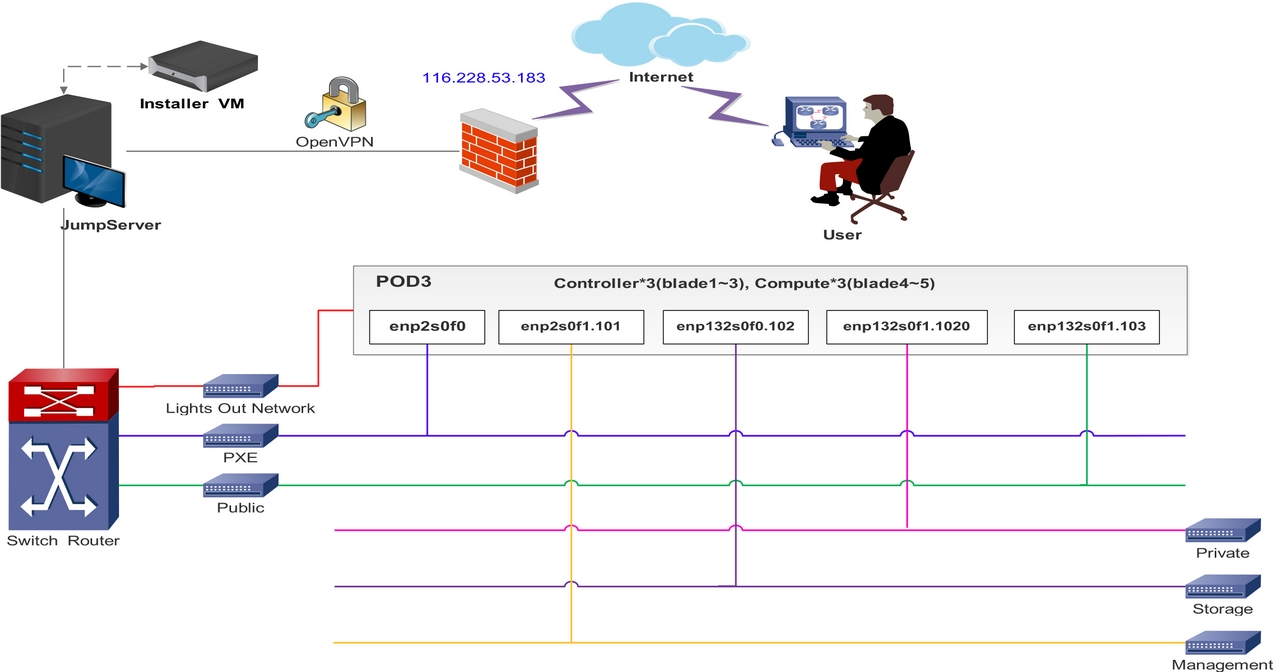
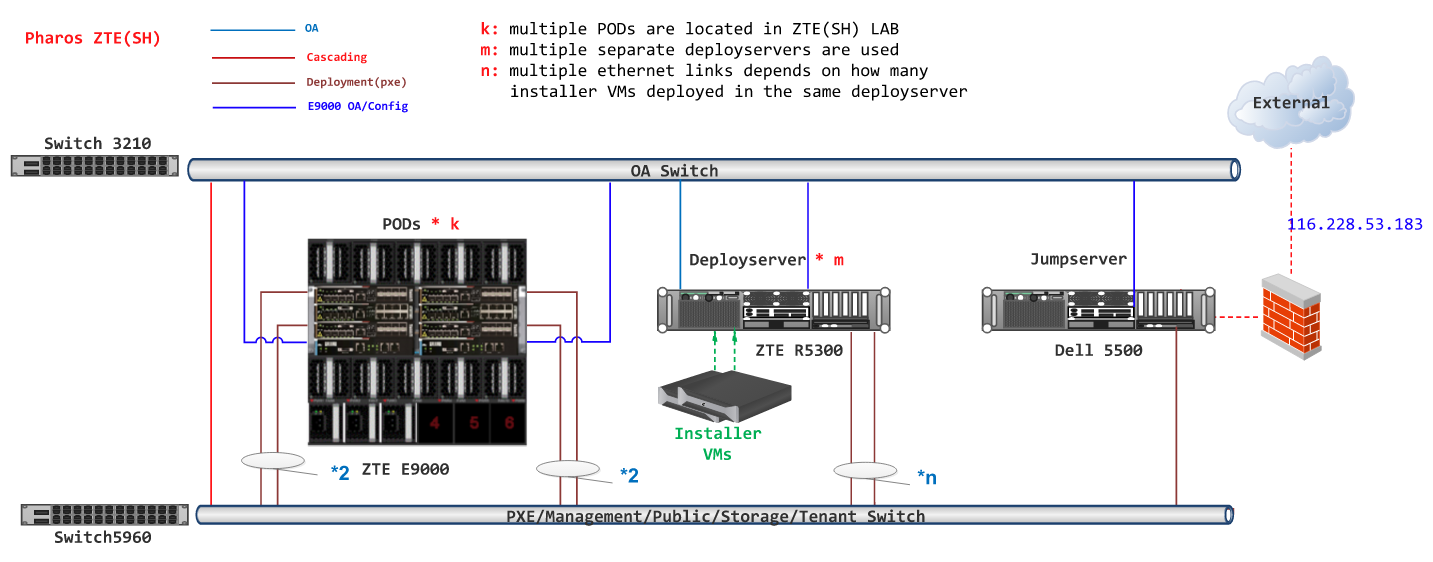
Migration ZTE NJ LAB from Nanjing to Shanghai
1. Migration ZTE POD1 and POD2 in Nanjing testlab into Shanghai. Update
releated documents.
2. Update lab topology.
3. Separate Deploy Server from Jump Host.

JIRA: PHAROS-245
JIRA: PHAROS-246

diff --git a/docs/labs/zte-sh-lab/lab_description.rst b/docs/labs/zte-sh-lab/lab_description.rst
@@ -12,9 +12,10 @@ ZTE SH Lab Specification
 Introduction
 ------------
 
-ZTE SH Pharos lab currently has one POD available in Shanghai. The POD has 5 servers, 3 controller
-nodes and 2 computer nodes. It is dedicatedly used for baremetal CI. The POD is supposed to support
-scenarios related with performance enhancement projects, such as KVM, OVS, FDS, etc.
+ZTE SH Pharos lab currently has three PODs available in Shanghai. Each POD has 5 servers, 3
+controller nodes and 2 computer nodes. These PODs are dedicatedly used for Production/CI. These PODs
+focus scenarios related with **test** projects, **installer** projects and performance enhancement
+projects, such as KVM, OVS, FDS, etc.
 
 Scenarios planned are list here:
 
@@ -28,14 +29,24 @@ Scenarios are defined in
 Lab Resources
 -------------
 
-+----------+------------+-----------+-------------------------+------------+--------+---------+
-| POD Name | Project(s) | PTL(s)    | Email(s)                | POD Role   | Status | Notes   |
-+----------+------------+-----------+-------------------------+------------+--------+---------+
-| POD3     | FUEL       | Gregory   | gelkinbard@mirantis.com | CI: latest | Active | NFV-KVM |
-|          |            | Elkinbard |                         |            |        | OVSNFV  |
-+----------+------------+-----------+-------------------------+------------+--------+---------+
++----------+------------+-----------+-------------------------+------------+--------+-----------+
+| POD Name | Project(s) | PTL(s)    | Email(s)                | POD Role   | Status | Notes     |
++----------+------------+-----------+-------------------------+------------+--------+-----------+
+| POD1     | FUEL       | Gregory   | gelkinbard@mirantis.com | CI: latest | Active | Yardstick |
+|          |            | Elkinbard |                         |            |        | Funtest   |
+|          |            |           |                         |            |        | Doctor    |
+|          |            |           |                         |            |        | Parser    |
++----------+------------+-----------+-------------------------+------------+--------+-----------+
+| POD2     | FUEL       | Gregory   | gelkinbard@mirantis.com | CI: latest | Active | Qtip      |
+|          |            | Elkinbard |                         |            |        |           |
++----------+------------+-----------+-------------------------+------------+--------+-----------+
+| POD3     | FUEL       | Gregory   | gelkinbard@mirantis.com | CI: latest | Active | NFV-KVM   |
+|          |            | Elkinbard |                         |            |        | OVSNFV    |
++----------+------------+-----------+-------------------------+------------+--------+-----------+
 
-- `POD3 wiki page <https://wiki.opnfv.org/display/pharos/ZTE+SH+Testlab>`_
+- `POD1-3 wiki page <https://wiki.opnfv.org/display/pharos/ZTE+SH+Testlab>`_
+* `POD1 jenkins slave <https://build.opnfv.org/ci/computer/zte-pod1/>`_
+* `POD2 jenkins slave <https://build.opnfv.org/ci/computer/zte-pod2/>`_
 - `POD3 jenkins slave <https://build.opnfv.org/ci/computer/zte-pod3/>`_
 
 
@@ -43,7 +54,7 @@ Acceptable Usage Policy
 -----------------------
 
 Resources located in OPNFV ZTE SH lab shall only be used for CI, infra setup/configuration and
-troubleshooting purposes. No development work is allowed in this Lab.
+troubleshooting purposes. No development work is allowed in these PODs.
 
 
 Remote Access Infrastructure
@@ -57,7 +68,7 @@ Remote Access Procedure
 
 Access to this environment can be granted by sending an e-mail to: **yangyang1@zte.com.cn**.
 
-Subject: opnfv zte-pod3 access.
+Subject: opnfv zte-pod[1-3] access.
 
 The following information should be provided in the request:
 
@@ -83,3 +94,34 @@ Lab Topology
 
 .. image:: ./images/zte_sh_lab_topology.png
    :alt: Lab diagram not found
+
+All the PODs share the same **Jump Host** for only one public IP address is allocated for the
+pharos lab. Deploy servers are separated from Jump Host. Every 2 PODs share one **Deploy Server**.
+
+**Jump Host**
+
++----------+--------+-------+---------------+---------+--------+-----------+--------------------+------------------+-------+
+|          |        |       |               |         | Memory | Local     | 1GbE: NIC#/IP      | 10GbE: NIC#/IP   |       |
+| Hostname | Vendor | Model | Serial Number | CPUs    | (GB)   | Storage   | MAC/VLAN/Network   | MAC/VLAN/Network | Notes |
++----------+--------+-------+---------------+---------+--------+-----------+--------------------+------------------+-------+
+| Rabbit   | HP     | 5500  | -             | X5647x2 | 24     | 250GB SAS | IF0:               |                  |       |
+|          |        |       |               |         |        | 2 TB HDD  | a0:36:9f:00:11:34/ |                  |       |
+|          |        |       |               |         |        |           | 192.168.1.1/       |                  |       |
+|          |        |       |               |         |        |           | native vlan/OA     |                  |       |
+|          |        |       |               |         |        |           | IF1:               |                  |       |
+|          |        |       |               |         |        |           | a0:36:9f:00:11:35/ |                  |       |
+|          |        |       |               |         |        |           | 172.10.0.1/        |                  |       |
+|          |        |       |               |         |        |           | vlan 103/Public    |                  |       |
+|          |        |       |               |         |        |           | 172.20.0.1/        |                  |       |
+|          |        |       |               |         |        |           | vlan 113/Public    |                  |       |
+|          |        |       |               |         |        |           | 172.60.0.1/        |                  |       |
+|          |        |       |               |         |        |           | vlan 163/Public    |                  |       |
+|          |        |       |               |         |        |           | 172.70.0.1/        |                  |       |
+|          |        |       |               |         |        |           | vlan 173/Public    |                  |       |
+|          |        |       |               |         |        |           | IF2:               |                  |       |
+|          |        |       |               |         |        |           | a0.36:9:00:11:37/  |                  |       |
+|          |        |       |               |         |        |           | 116.228.53.183/    |                  |       |
+|          |        |       |               |         |        |           | native vlan/       |                  |       |
+|          |        |       |               |         |        |           | Internet           |                  |       |
++----------+--------+-------+---------------+---------+--------+-----------+--------------------+------------------+-------+
+

diff --git a/docs/labs/zte-sh-lab/pod2_description.rst b/docs/labs/zte-sh-lab/pod2_description.rst
@@ -24,21 +24,27 @@ Additional Requirements
 Server Specifications
 ---------------------
 
-
 **Jump Host**
 
-POD2 share the same **Jump Host** with POD1:
+POD2 share the same **Jump Host** in the lab.
 
-+----------+--------+-------+---------------+-----------+--------+-----------+-------------------+------------------+-------+
-|          |        |       |               |           | Memory | Local     | 1GbE: NIC#/IP     | 10GbE: NIC#/IP   |       |
-| Hostname | Vendor | Model | Serial Number | CPUs      | (GB)   | Storage   | MAC/VLAN/Network  | MAC/VLAN/Network | Notes |
-+----------+--------+-------+---------------+-----------+--------+-----------+-------------------+------------------+-------+
-| Frog     | ZTE    | R4300 | 277662500093  | E5-2620x2 | 32     | 600GB HDD | IF0: 10.20.0.1    |                  |       |
-|          |        |       |               |           |        |           | 98:F5:37:E1:B4:1C |                  |       |
-|          |        |       |               |           |        |           | VLAN 1            |                  |       |
-|          |        |       |               |           |        |           | PXE               |                  |       |
-+----------+--------+-------+---------------+-----------+--------+-----------+-------------------+------------------+-------+
+**Deploy Server**
 
+POD2 share the same **Deploy Server** with POD1.
+
++-----------+--------+-------+---------------+-----------+--------+-----------+--------------------+------------------+-------+
+|           |        |       |               |           | Memory | Local     | 1GbE: NIC#/IP      | 10GbE: NIC#/IP   |       |
+| Hostname  | Vendor | Model | Serial Number | CPUs      | (GB)   | Storage   | MAC/VLAN/Network   | MAC/VLAN/Network | Notes |
++-----------+--------+-------+---------------+-----------+--------+-----------+--------------------+------------------+-------+
+| Jellyfish | ZTE    | R5300 | 277662500093  | E5-2620x2 | 128    | 600GB SAS | IF0:               |                  |       |
+|           |        |       |               |           |        | 4 TB HDD  | 74:4a:a4:00:91:b3/ |                  |       |
+|           |        |       |               |           |        |           | 10.20.6.1/         |                  |       |
+|           |        |       |               |           |        |           | native vlan/PXE    |                  |       |
+|           |        |       |               |           |        |           | IF1:               |                  |       |
+|           |        |       |               |           |        |           | 74:4a:a4:00:91:b4/ |                  |       |
+|           |        |       |               |           |        |           | 10.20.7.1/         |                  |       |
+|           |        |       |               |           |        |           | native vlan/PXE    |                  |       |
++-----------+--------+-------+---------------+-----------+--------+-----------+--------------------+------------------+-------+
 
 
 **Compute Nodes**
@@ -126,5 +132,5 @@ Firewall Rules
 POD Topology
 ------------
 
-.. image:: ./zte_nj_pod2_topology.png
+.. image:: ./images/zte_sh_pod_topology.png
    :alt: POD diagram not found

diff --git a/docs/labs/zte-sh-lab/pod1_description.rst b/docs/labs/zte-sh-lab/pod1_description.rst
@@ -27,15 +27,23 @@ Server Specifications
 
 **Jump Host**
 
-+----------+--------+-------+---------------+-----------+--------+-----------+-------------------+------------------+-------+
-|          |        |       |               |           | Memory | Local     | 1GbE: NIC#/IP     | 10GbE: NIC#/IP   |       |
-| Hostname | Vendor | Model | Serial Number | CPUs      | (GB)   | Storage   | MAC/VLAN/Network  | MAC/VLAN/Network | Notes |
-+----------+--------+-------+---------------+-----------+--------+-----------+-------------------+------------------+-------+
-| Frog     | ZTE    | R4300 | 277662500093  | E5-2620x2 | 32     | 600GB HDD | IF0: 10.20.0.1    |                  |       |
-|          |        |       |               |           |        |           | 98:F5:37:E1:B4:1C |                  |       |
-|          |        |       |               |           |        |           | vlan 1            |                  |       |
-|          |        |       |               |           |        |           | PXE               |                  |       |
-+----------+--------+-------+---------------+-----------+--------+-----------+-------------------+------------------+-------+
+POD1 share the same **Jump Host** in the lab.
+
+**Deploy server**
+
++-----------+--------+-------+---------------+-----------+--------+-----------+--------------------+------------------+-------+
+|           |        |       |               |           | Memory | Local     | 1GbE: NIC#/IP      | 10GbE: NIC#/IP   |       |
+| Hostname  | Vendor | Model | Serial Number | CPUs      | (GB)   | Storage   | MAC/VLAN/Network   | MAC/VLAN/Network | Notes |
++-----------+--------+-------+---------------+-----------+--------+-----------+--------------------+------------------+-------+
+| Jellyfish | ZTE    | R5300 | 277662500093  | E5-2620x2 | 128    | 600GB SAS | IF0:               |                  |       |
+|           |        |       |               |           |        | 4 TB HDD  | 74:4a:a4:00:91:b3/ |                  |       |
+|           |        |       |               |           |        |           | 10.20.6.1/         |                  |       |
+|           |        |       |               |           |        |           | native vlan/PXE    |                  |       |
+|           |        |       |               |           |        |           | IF1:               |                  |       |
+|           |        |       |               |           |        |           | 74:4a:a4:00:91:b4/ |                  |       |
+|           |        |       |               |           |        |           | 10.20.7.1/         |                  |       |
+|           |        |       |               |           |        |           | native vlan/PXE    |                  |       |
++-----------+--------+-------+---------------+-----------+--------+-----------+--------------------+------------------+-------+
 
 
 **Nodes/Servers**
@@ -123,5 +131,5 @@ Firewall Rules
 POD Topology
 ------------
 
-.. image:: ./images/zte_nj_pod1_topology.png
+.. image:: ./images/zte_sh_pod_topology.png
    :alt: POD diagram not found

diff --git a/docs/labs/zte-sh-lab/pod3_description.rst b/docs/labs/zte-sh-lab/pod3_description.rst
@@ -25,15 +25,23 @@ Server Specifications
 
 **Jump Host**
 
-+----------+--------+-------+---------------+-----------+--------+-----------+-------------------+------------------+-------+
-|          |        |       |               |           | Memory | Local     | 1GbE: NIC#/IP     | 10GbE: NIC#/IP   |       |
-| Hostname | Vendor | Model | Serial Number | CPUs      | (GB)   | Storage   | MAC/VLAN/Network  | MAC/VLAN/Network | Notes |
-+----------+--------+-------+---------------+-----------+--------+-----------+-------------------+------------------+-------+
-| Frog     | ZTE    | R5300 | 210077307607  | E5-2609x2 | 32     | 600GB SAS | IF0: 10.20.0.1    |                  |       |
-|          |        |       |               |           |        | 2TB HDD   | 74:4a:a4:00:21:0b |                  |       |
-|          |        |       |               |           |        |           | vlan 100/PXE      |                  |       |
-|          |        |       |               |           |        |           |                   |                  |       |
-+----------+--------+-------+---------------+-----------+--------+-----------+-------------------+------------------+-------+
+POD3 share the same **Jump Host** in the lab.
+
+**Deploy Server**
+
++----------+--------+-------+---------------+-----------+--------+------------+--------------------+------------------+-------+
+|          |        |       |               |           | Memory | Local      | 1GbE: NIC#/IP      | 10GbE: NIC#/IP   |       |
+| Hostname | Vendor | Model | Serial Number | CPUs      | (GB)   | Storage    | MAC/VLAN/Network   | MAC/VLAN/Network | Notes |
++----------+--------+-------+---------------+-----------+--------+------------+--------------------+------------------+-------+
+| Spider   | ZTE    | R5300 | 210077307607  | E5-2609x1 | 32     | 600GB SAS  | IF0:               |                  |       |
+|          |        |       |               |           |        | 1.2TB SCSI | 74:4a:a4:00:21:0b/ |                  |       |
+|          |        |       |               |           |        |            | 10.20.0.1/         |                  |       |
+|          |        |       |               |           |        |            | native vlan/PXE    |                  |       |
+|          |        |       |               |           |        |            | IF1:               |                  |       |
+|          |        |       |               |           |        |            | 74:4a:a4:00:21:0c/ |                  |       |
+|          |        |       |               |           |        |            | 10.20.1.1/         |                  |       |
+|          |        |       |               |           |        |            | native vlan/PXE    |                  |       |
++----------+--------+-------+---------------+-----------+--------+------------+--------------------+------------------+-------+
 
 
 **Compute Nodes**
@@ -151,5 +159,5 @@ Firewall Rules
 POD Topology
 ------------
 
-.. image:: ./images/zte_sh_pod3_topology.png
+.. image:: ./images/zte_sh_pod_topology.png
    :alt: POD diagram not found

diff --git a/docs/labs/zte-sh-lab/index.rst b/docs/labs/zte-sh-lab/index.rst
@@ -10,6 +10,9 @@ ZTE SH Pharos Lab Configuration Files
 
 
 .. toctree::
+   :maxdepth: 2
 
    ./lab_description.rst
+   ./pod1_description.rst
+   ./pod2_description.rst
    ./pod3_description.rst

diff --git a/docs/labs/index.rst b/docs/labs/index.rst
@@ -16,5 +16,4 @@ PHAROS Community Labs
    ./ool/index.rst
    ./orange-paris-lab/index.rst
    ./spirent.rst
-   ./zte-nj-lab/index.rst
    ./zte-sh-lab/index.rst
